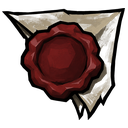
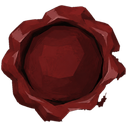
v3.28: 봉인 도장에 딸려 오던 종이 조각 제거
seal_stamp 을 봉인 아이콘 원본에서 통째로 떠 오다 보니 밀랍 뒤 양피지 귀퉁이까지
같이 들어갔다. 주사위 위에서는 흰 종잇조각이 튀어나온 것처럼 보였다.
붉은 화소만 골라(빨강이 초록·파랑보다 우세) 밀랍 덩어리만 남긴다.
덮개 색줄기에 맞춰 면은 봉인색(파랑)으로 덮고 그 위에 붉은 밀랍을 찍는다.

diff --git a/css/style.css b/css/style.css
@@ -1281,13 +1281,14 @@ span.enemy-art {
 .die.sealed-off .seal-veil {
   position: absolute; left: 8px; right: 8px; top: 12px; bottom: 12px;
   border-radius: 7px; z-index: 3; pointer-events: none;
-  background: linear-gradient(160deg, rgba(96, 26, 26, .86) 0%, rgba(62, 16, 18, .92) 55%, rgba(40, 12, 14, .95) 100%);
+  /* 봉인 색(#3a52c8) 계열로 덮고 그 위에 붉은 밀랍을 찍는다 — 덮개 테두리와 같은 색줄기 */
+  background: linear-gradient(160deg, rgba(38, 52, 122, .9) 0%, rgba(24, 32, 78, .94) 55%, rgba(14, 19, 48, .96) 100%);
   box-shadow: inset 0 0 10px rgba(0, 0, 0, .55);
 }
 .die.sealed-off .seal-stamp {
-  position: absolute; left: 50%; top: 50%; width: 40px; height: 40px;
+  position: absolute; left: 50%; top: 50%; width: 33px; height: 33px;
   transform: translate(-50%, -54%) rotate(-7deg); z-index: 5; pointer-events: none;
-  object-fit: contain; filter: drop-shadow(0 2px 3px rgba(0, 0, 0, .8));
+  object-fit: contain; filter: brightness(1.25) saturate(1.15) drop-shadow(0 2px 3px rgba(0, 0, 0, .85));
   animation: sealPress 2.6s ease-in-out infinite;
 }
 @keyframes sealPress {

diff --git a/js/main.js b/js/main.js
@@ -5,7 +5,7 @@ import { whetMultOf } from './yahtzee.js';
 import { newRun, rollEncounter, rollRewards, applyRest, restHealAmount, saveRun, loadRun, clearSave, hasSave, chooseWeapon, offerWeapons, pickEvent, applyEventEffects, applyRelicPickup, rollShopStock, bossRelicChoices, bossLegendaryChoices, eliteRelicChoices, loadMeta, setEnlight, gainEnlight, advanceAct, themeOf, finalEncounter, coinReward, reachableNodes, rollCardRewards } from './run.js';
 import { createCardBattle, clashDice, playCard, endCardTurn, previewTurn, setTarget, aliveFoes, cardOf, cardTargetKind, movePower, moveHurts } from './cardbattle.js';
 
-export const VERSION = 'v3.27'; // 로비 하단 표기 — 판을 올릴 때 함께 올린다
+export const VERSION = 'v3.28'; // 로비 하단 표기 — 판을 올릴 때 함께 올린다
 import { setScene, toggleMute, isMuted, prefetch } from './audio.js';
 
 const app = document.getElementById('app');

diff --git a/index.html b/index.html
@@ -11,14 +11,14 @@
   <link rel="manifest" href="./manifest.json">
   <link rel="icon" href="./assets/icon-192.png">
   <link rel="apple-touch-icon" href="./assets/icon-192.png">
-  <link rel="stylesheet" href="./assets/fonts/song-myung/index.css?v=327">
-  <link rel="stylesheet" href="./css/style.css?v=327">
+  <link rel="stylesheet" href="./assets/fonts/song-myung/index.css?v=328">
+  <link rel="stylesheet" href="./css/style.css?v=328">
 </head>
 <body>
   <div id="app">
     <div class="screen center"><p class="loading">숲으로 들어가는 중…</p></div>
   </div>
   <div id="rotate-overlay"><p>📱 세로로 돌려주세요</p></div>
-  <script type="module" src="./js/main.js?v=327"></script>
+  <script type="module" src="./js/main.js?v=328"></script>
 </body>
 </html>

diff --git a/sw.js b/sw.js
@@ -1,6 +1,6 @@
 // REDHOOD 서비스 워커 — 오프라인 캐시
 // ⚠ 판을 바꾸면 CACHE 번호를 반드시 +1 (runbook 규칙)
-const CACHE = 'redhood-v205';
+const CACHE = 'redhood-v206';
 const ASSETS = [
   './',
   './index.html',
